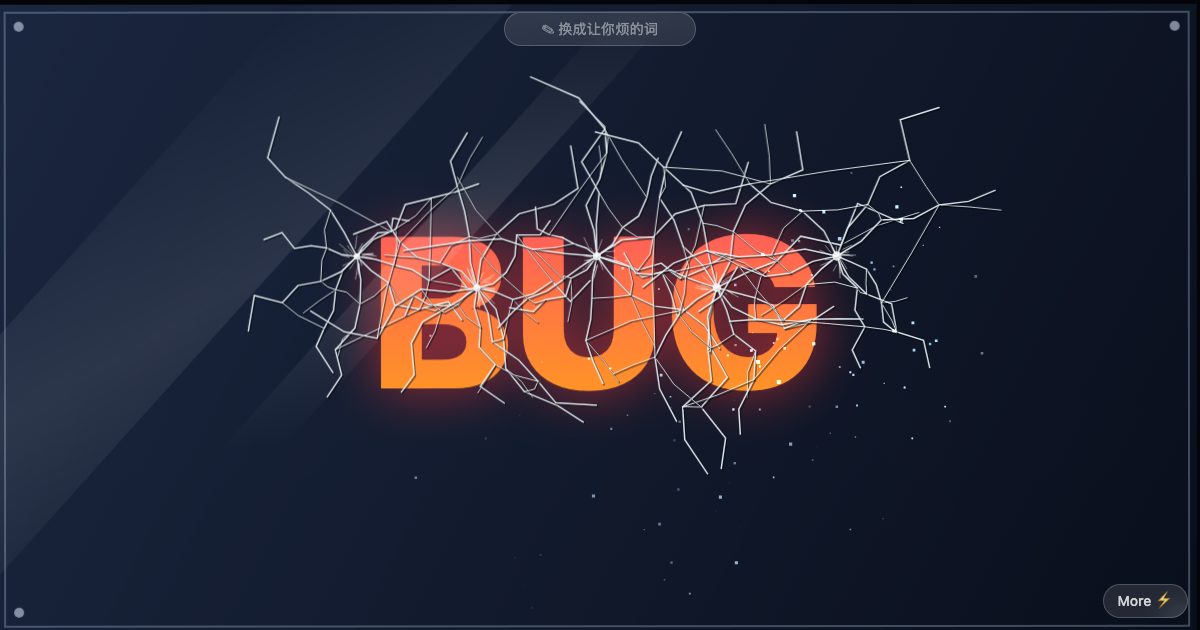
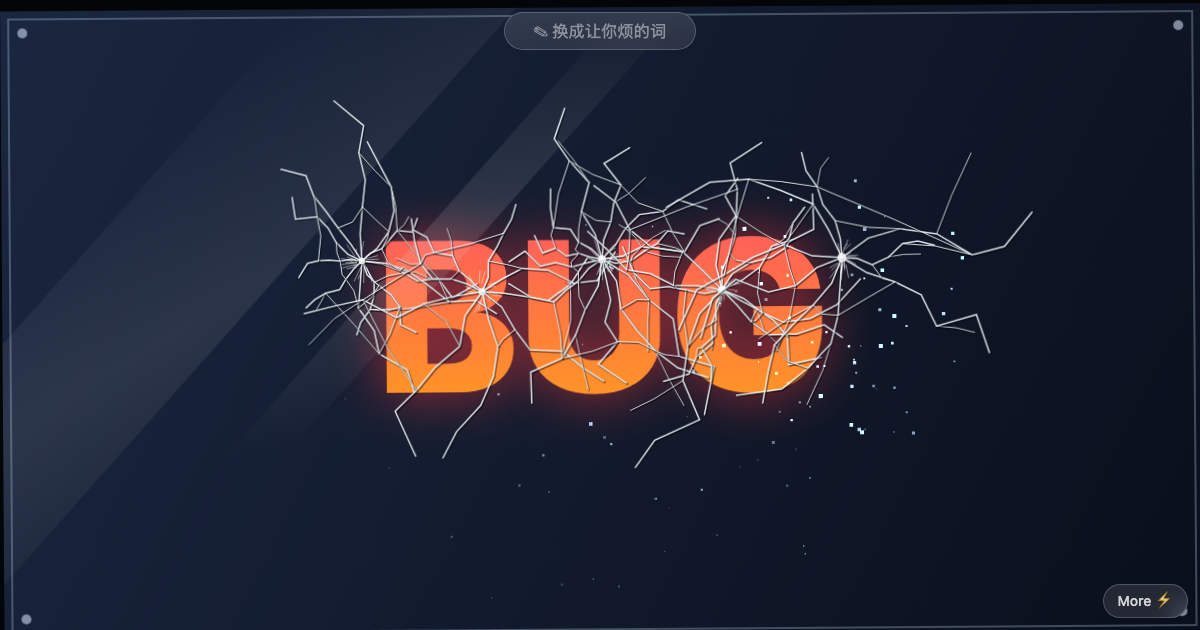
Deploy via gh-pages branch; audio voice budget only on high-rate sounds; polish

diff --git a/src/engine/AudioEngine.ts b/src/engine/AudioEngine.ts
@@ -74,8 +74,10 @@ class AudioEngine {
     return !!this.ctx && !!this.master
   }
 
-  /** Simple voice budget so a 300-bubble chain doesn't melt the mixer. */
-  private budget(max = 14, windowS = 0.06): boolean {
+  /** Voice budget for the high-rate sounds only (pop/chime/blip), so a 300-bubble
+   *  chain doesn't melt the mixer. Big one-shots (boom/chord/shatter) never go through it. */
+  private budget(max = 8, windowS = 0.05): boolean {
+    if (!this.ok) return false
     const now = this.ctx!.currentTime
     this.recent = this.recent.filter((t) => now - t < windowS)
     if (this.recent.length >= max) return false
@@ -84,7 +86,7 @@ class AudioEngine {
   }
 
   tone(o: ToneOpts): void {
-    if (!this.ok || !this.budget()) return
+    if (!this.ok) return
     const ctx = this.ctx!
     const t0 = ctx.currentTime + (o.delay ?? 0)
     const dur = o.dur ?? 0.2
@@ -109,7 +111,7 @@ class AudioEngine {
   }
 
   noise(o: NoiseOpts): void {
-    if (!this.ok || !this.budget()) return
+    if (!this.ok) return
     const ctx = this.ctx!
     const t0 = ctx.currentTime + (o.delay ?? 0)
     const dur = o.dur ?? 0.3
@@ -147,6 +149,7 @@ class AudioEngine {
 
   /** Small punchy pop with a pitched body. */
   blip(freq: number, gain = 0.25): void {
+    if (!this.budget()) return
     this.tone({ freq: freq * 1.5, freqEnd: freq, type: 'triangle', dur: 0.18, gain })
     this.noise({ dur: 0.05, gain: gain * 0.6, filter: 'bandpass', freq: 2500, q: 1.5 })
     this.tone({ freq: 160, freqEnd: 60, dur: 0.12, gain: gain * 0.9 })
@@ -154,6 +157,7 @@ class AudioEngine {
 
   /** Crisp bell-ish note for pitch escalation. */
   chime(freq: number, gain = 0.18, pan = 0): void {
+    if (!this.budget()) return
     this.tone({ freq, type: 'sine', dur: 0.35, gain, pan })
     this.tone({ freq: freq * 2, type: 'triangle', dur: 0.12, gain: gain * 0.35, pan })
   }
@@ -167,6 +171,7 @@ class AudioEngine {
 
   /** Bubble pop: fast upward sine chirp + click. */
   pop(freq: number, gain = 0.3): void {
+    if (!this.budget()) return
     this.tone({ freq: freq * 0.6, freqEnd: freq * 1.9, type: 'sine', dur: 0.07, gain, attack: 0.002 })
     this.noise({ dur: 0.025, gain: gain * 0.5, filter: 'highpass', freq: 4000 })
   }

diff --git a/src/App.tsx b/src/App.tsx
@@ -27,7 +27,7 @@ export default function App() {
           api.current?.setWord(e.target.value)
         }}
         onKeyDown={(e) => e.key === 'Enter' && e.currentTarget.blur()}
-        className="fixed left-1/2 top-3 z-20 w-48 -translate-x-1/2 rounded-full border border-white/20 bg-white/10 px-4 py-1.5 text-center text-sm text-white placeholder-white/45 outline-none backdrop-blur-md focus:border-white/40 focus:bg-white/20"
+        className="fixed left-1/2 top-3 z-20 w-48 -translate-x-1/2 rounded-full border border-white/20 bg-white/10 px-4 py-1.5 text-center text-base text-white placeholder-white/45 outline-none backdrop-blur-md focus:border-white/40 focus:bg-white/20"
       />
       <Hint text="点击砸玻璃 · 连砸十下整块粉碎" hidden={touched} />
       <MoreMenu current="smash" />
